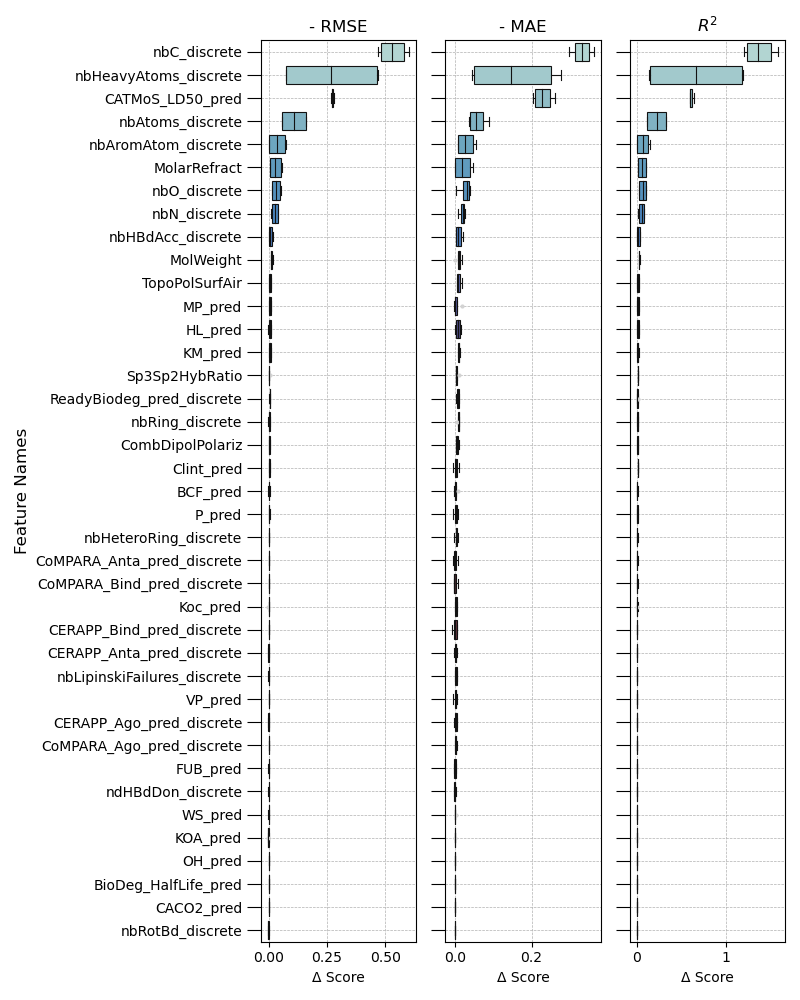
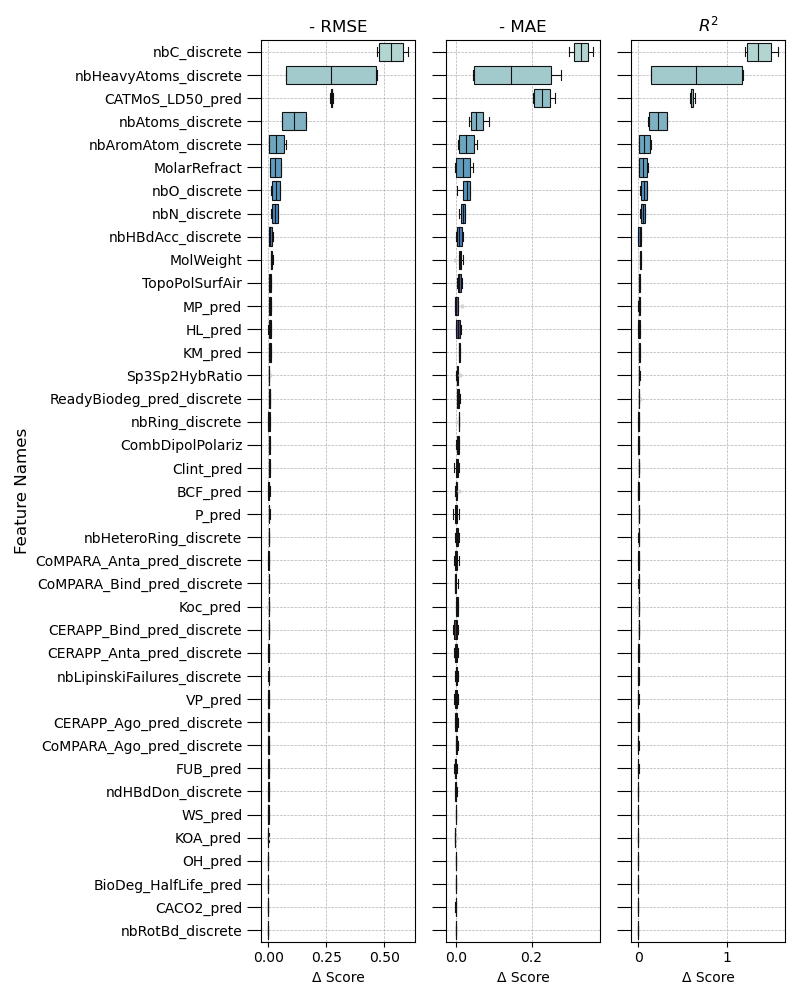
Create helper function: plot.sns_boxplot_wrapper

diff --git a/lcia_qsar/plot.py b/lcia_qsar/plot.py
@@ -419,16 +419,23 @@ def important_feature_counts(
 def importances_boxplots(
         workflow, 
         label_for_scoring,
-        feature_names_label
+        feature_names_label, 
+        xlabel='Δ Score',
+        figsize=(8, 10)
         ):
     '''
     '''
+    importances_wide = workflow.concatenate_history('importances')
+    model_keys = [k for k in workflow.model_keys if 'with_selection' in k]
+
     _feature_importances_boxplots(
-        workflow, 
-        'importances', 
+        importances_wide, 
+        model_keys, 
         importances_boxplots,
         label_for_scoring,
-        feature_names_label
+        xlabel=xlabel,
+        ylabel=feature_names_label,
+        figsize=figsize
         )
 #endregion
 
@@ -436,26 +443,35 @@ def importances_boxplots(
 def importances_replicates_boxplots(
         workflow, 
         label_for_scoring,
-        feature_names_label
+        feature_names_label,
+        xlabel='Δ Score',
+        figsize=(8, 10)
         ):
     '''
     '''
+    importances_wide = workflow.concatenate_history('importances_replicates')
+    model_keys = [k for k in workflow.model_keys if 'with_selection' in k]
+
     _feature_importances_boxplots(
-        workflow, 
-        'importances_replicates', 
+        importances_wide, 
+        model_keys, 
         importances_replicates_boxplots,
         label_for_scoring,
-        feature_names_label
+        xlabel=xlabel,
+        ylabel=feature_names_label,
+        figsize=figsize
         )
 #endregion
 
 #region: _feature_importances_boxplots
 def _feature_importances_boxplots(
-        workflow, 
-        importances_key, 
+        df_wide, 
+        model_keys,
         function, 
         label_for_scoring,
-        feature_names_label
+        xlabel,
+        ylabel='', 
+        figsize=None,
         ):
     '''
     Plot boxplots for feature importances for all models in workflow.
@@ -463,44 +479,48 @@ def _feature_importances_boxplots(
     Parameters
     ----------
     workflow : object
-        The workflow object containing the model keys and corresponding history.
+        The workflow object containing the model keys and corresponding 
+        history.
 
     Returns
     -------
     None : None
     '''
-    importances_wide = workflow.concatenate_history(importances_key)
-    xlabel = 'Δ Score'
-    figsize = (8, 10)
-
-    model_keys = [k for k in workflow.model_keys if 'with_selection' in k]
     for model_key in model_keys:
         
-        # Format the data for plotting.
-        cv_importances_long = {}
-        for score in label_for_scoring:
-            cv_importances_long[score] = (
-                importances_wide[model_key][score]
+        fig, axs = plt.subplots(
+            ncols=len(label_for_scoring),
+            sharey=True,
+            figsize=figsize
+        )
+
+        for i, (scoring, title) in enumerate(label_for_scoring.items()):
+
+            df_long = (
+                df_wide[model_key][scoring]
                 .melt()
                 .sort_values(by='value', ascending=False) 
             )
         
-        # Get the column names from the last iteration.
-        y, x = list(cv_importances_long[score])
+            y, x = list(df_long.columns)
         
-        fig, axs = vertical_boxplots(
-            cv_importances_long, 
-            x, 
-            y,
-            xlabel,
-            ylabel=feature_names_label,
-            title_for_key=label_for_scoring,
-            figsize=figsize,
-            palette='icefire', 
-            linewidth=0.8,
-            flierprops=_flierprops
-        )
+            sns_boxplot_wrapper(
+                axs[i], 
+                df_long,
+                x, 
+                y,
+                xlabel=xlabel, 
+                title=title,
+                palette='icefire' 
+            )
 
+        if ylabel:
+            # Set ylabel, first column only.
+            for i, ax in enumerate(axs.flatten()):
+                ax.tick_params(axis='y', size=10)
+                if i == 0:
+                    ax.set_ylabel(ylabel, size=12)
+        
         fig.tight_layout()
 
         save_figure(
@@ -510,90 +530,38 @@ def _feature_importances_boxplots(
             )
 #endregion
 
-#region: vertical_boxplots
-def vertical_boxplots(
-        data_for_key, 
+#region: sns_boxplot_wrapper
+def sns_boxplot_wrapper(
+        ax, 
+        df_long, 
         x, 
         y, 
-        xlabel, 
-        ylabel=None,
-        sharex=False, 
-        xlim=None, 
-        title_for_key=None, 
-        figsize=None, 
-        write_path=None, 
+        xlabel='',
+        ylabel='', 
+        title='',
         **kwargs
         ):
-    '''Wrapper around seaborn.boxplot().
-
-    Parameters
-    ----------
-    data_for_key : dict of pandas.DataFrame
-        Datasets, in long form, to plot.
-    x, y, huenames of variables in data or vector data, optional
-        Inputs for plotting long-form data.
-    xlabel : str
-        Used for Axes.set_xlabel().
-    sharex : bool
-        Controls sharing of properties among x axes via matplotlib.subplots().
-    xlim : 2-tuple (optional)
-        Used for Axes.set_xlim().
-    title_for_key : dict (optional)
-        Mapping DataFrame keys to Axes titles.
-    figsize : 2-tuple (optional)
-    write_path : str (optional)
-        If specified, the figure will be saved as Figure.savefig(write_path).
-    kwargs : key-value mapping
-        Other keyword arguments are passed to seaborn.boxplot().
-
-    Returns
-    -------
-    matplotlib (Figure, Axes)
+    '''Wrapper around seaborn.boxplot() with customization.
     '''
-    fig, axs = plt.subplots(
-        ncols=len(data_for_key),
-        sharey=True,
-        sharex=sharex,
-        figsize=figsize
+    sns.boxplot(    
+        x=x, 
+        y=y, 
+        data=df_long,
+        linewidth=0.8,
+        dodge=False,
+        ax=ax,
+        flierprops=_flierprops, 
+        **kwargs
     )
-        
-    for i, (k, data) in enumerate(data_for_key.items()): 
 
-        sns.boxplot(    
-            x=x, 
-            y=y, 
-            data=data,
-            dodge=False,
-            ax=axs[i],
-            **kwargs
-        )
+    ## Set gridlines below all artists.
+    ax.grid(axis='x', linestyle='--', linewidth=0.5)
+    ax.grid(axis='y', linestyle='--', linewidth=0.5)
+    ax.set_axisbelow(True)
 
-        axs[i].grid(axis='x', linestyle='--', linewidth=0.5)
-        axs[i].grid(axis='y', linestyle='--', linewidth=0.5)
-        # Set grid lines, etc., below all artists.
-        axs[i].set_axisbelow(True)
-
-        if xlim is not None:
-            axs[i].set_xlim(xlim)
-        axs[i].set_ylabel('')
-        axs[i].set_xlabel(xlabel)
-
-        title = k if title_for_key is None else title_for_key[k]
-        axs[i].set_title(title)
-
-    if ylabel:
-        # Set ylabel, first column only.
-        for i, ax in enumerate(axs.flatten()):
-            ax.tick_params(axis='y', size=10)
-            if i == 0:
-                ax.set_ylabel(ylabel, size=12)
-        
-    fig.tight_layout()
-
-    if write_path is not None:
-        fig.savefig(write_path)
-
-    return fig, axs
+    ax.set_xlabel(xlabel)
+    ax.set_ylabel(ylabel)
+    ax.set_title(title)
 #endregion
 
 #region: benchmarking_scatterplots
